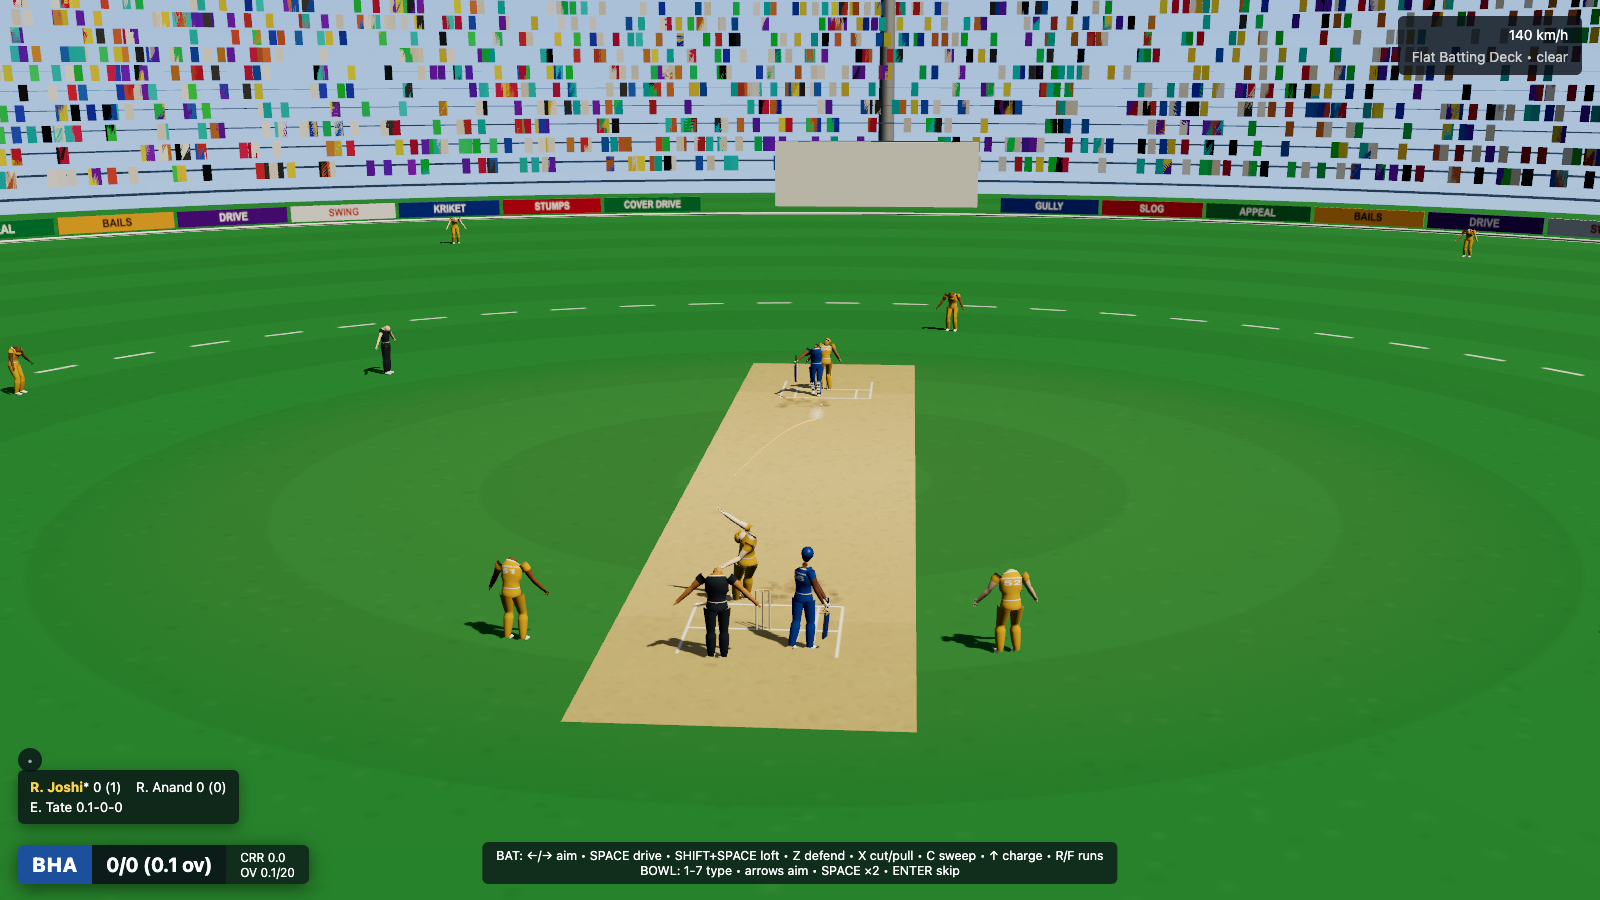
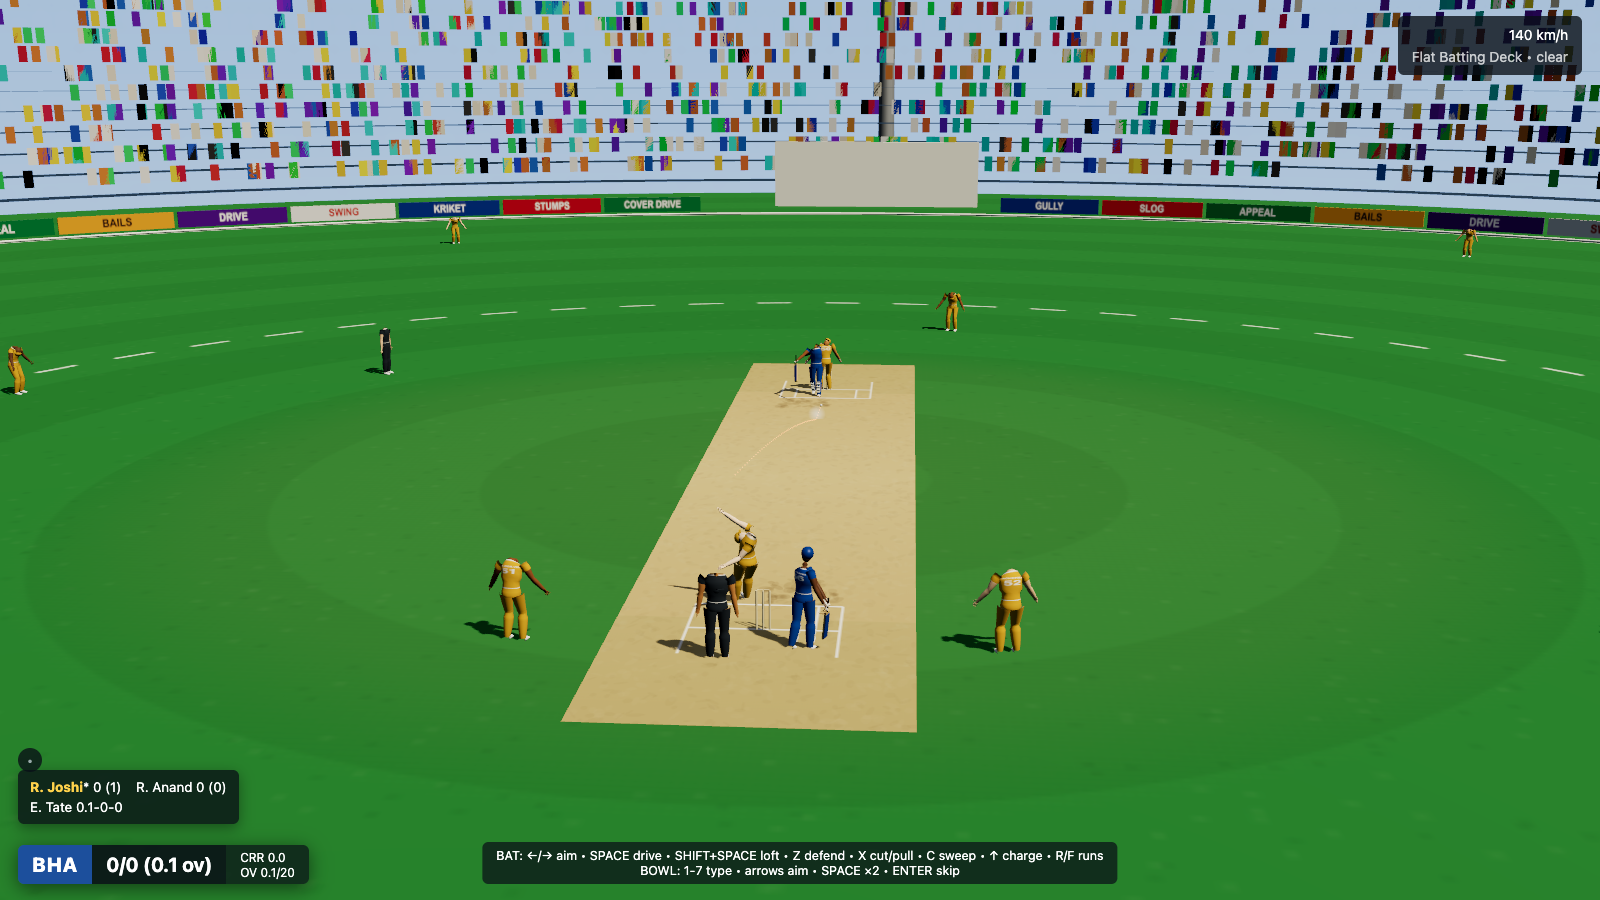
Umpire idle recovery after signals

Changed region(s): [[0.0, 0.0, 1.0, 0.2178], [0.4062, 0.6222, 0.4688, 0.6844]]

diff --git a/src/gameplay/MatchController.ts b/src/gameplay/MatchController.ts
@@ -672,9 +672,15 @@ export class MatchController {
 
     if (this.umpireSignal) {
       this.umpireSignal.t += dt;
-      if (this.umpireSignal.t > 0) {
+      if (this.umpireSignal.t > 0 && this.umpireSignal.t < 2.6) {
         this.umpireMain.umpireSignal(this.umpireSignal.kind, this.umpireSignal.t);
+      } else if (this.umpireSignal.t >= 2.6) {
+        // signal over: relax back to a neutral stand
+        this.umpireMain.idleStand(performance.now() / 1000);
       }
+    } else {
+      this.umpireMain?.idleStand(performance.now() / 1000);
+      this.umpireSquare?.idleStand(performance.now() / 1000);
     }
 
     switch (this.phase) {

diff --git a/src/entities/HumanCricketer.ts b/src/entities/HumanCricketer.ts
@@ -202,6 +202,11 @@ export class HumanCricketer {
     this.scrubNow('cricket_appeal', Math.min(1, t / 1.6));
   }
 
+  /** relaxed neutral stand (umpires between signals, anyone idling) */
+  idleStand(t: number): void {
+    this.scrubNow('idle', ((t / 4.0) % 1 + 1) % 1);
+  }
+
   umpireSignal(kind: 'out' | 'four' | 'six' | 'wide' | 'legbye' | 'dead', t: number): void {
     const clip = kind === 'dead' ? 'cricket_umpire_deadball' : `cricket_umpire_${kind}`;
     this.scrubNow(clip, Math.min(1, t / 1.6));
